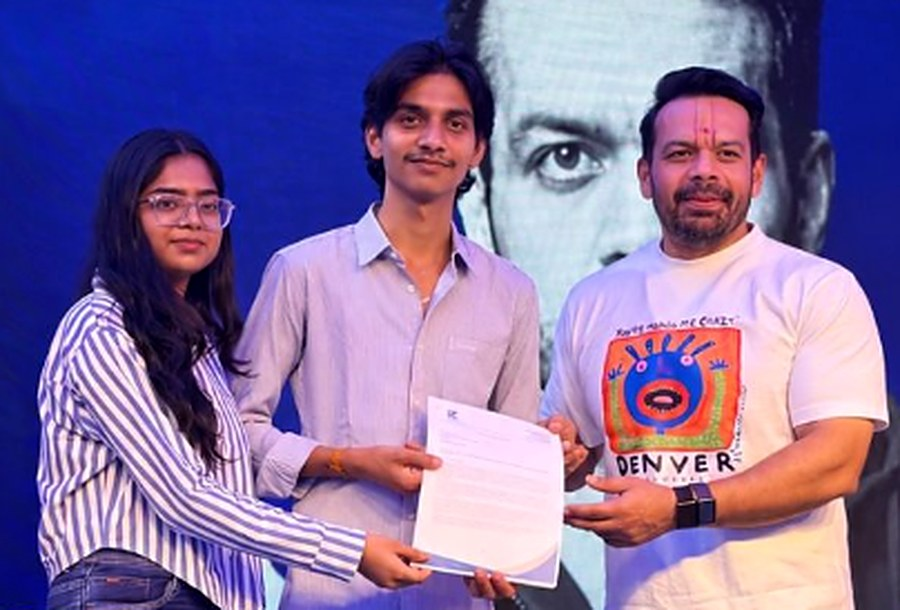
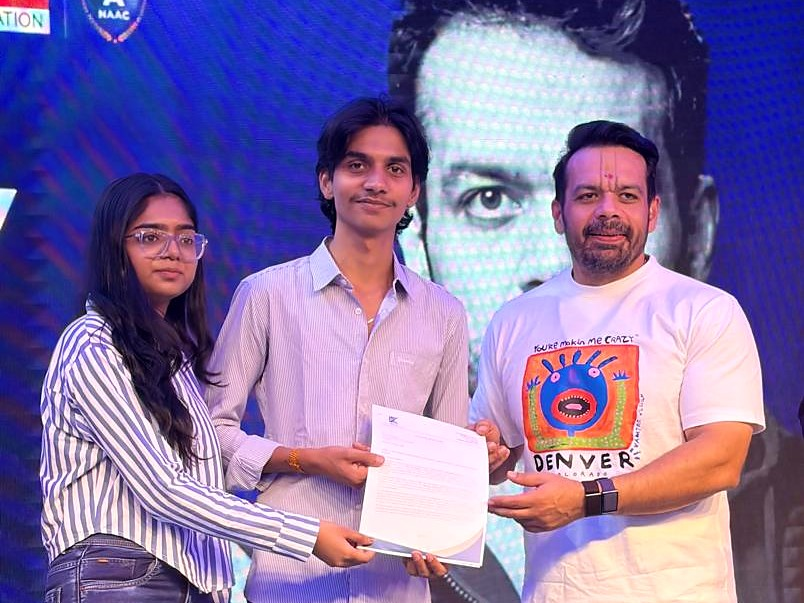
Sharper IDEAS 4.0 photos and LinkedIn links

diff --git a/src/pages/Team.jsx b/src/pages/Team.jsx
@@ -17,7 +17,7 @@ const TEAM = [
     ],
     quote: 'Sometimes all it takes is the ambition to build something from scratch.',
     focus: ['Vision', 'Research', 'Execution'],
-    linkedin: '', // paste the LinkedIn link here, or leave empty to hide the button
+    linkedin: 'https://www.linkedin.com/in/kumar-nishant-ds', // leave empty to hide the button
   },
   {
     name: 'Bhavya Singhal', short: 'Bhavya', role: 'Co-founder', tone: 'teal',
@@ -28,7 +28,7 @@ const TEAM = [
       "She is the team's strategist and thinker. She helps decide where AquaByte is heading, brings people and ideas together, and makes sure every big decision has a clear reason behind it.",
     ],
     focus: ['Strategy', 'Collaboration', 'Big-picture thinking'],
-    linkedin: '',
+    linkedin: 'https://www.linkedin.com/in/bhavya-singhal-a0b485381',
   },
   {
     name: 'Anushka Pandey', short: 'Anushka', role: 'Web Developer', tone: 'sky',
@@ -38,7 +38,7 @@ const TEAM = [
       "Anushka designed and developed the AquaByte website, from the home page to the live dashboard, analytics charts and the Aqua assistant. She turned the team's ideas into a clean, responsive site that works on every screen.",
     ],
     focus: ['Web development', 'UI design', 'React'],
-    linkedin: '',
+    linkedin: 'https://www.linkedin.com/in/anushka-pandey-83b570381',
   },
 ]
 
@@ -48,9 +48,9 @@ const ACHIEVEMENT = {
   text: 'We presented AquaByte at IDEAS 4.0, the innovation and entrepreneurship event by KEIC at K.R. Mangalam University, and were awarded certificates on stage. A moment that pushed us to keep building.',
   // Photos live in public/achievements/
   photos: [
-    { src: '/achievements/ideas-1.jpg', alt: 'Receiving our certificate on stage at IDEAS 4.0' },
-    { src: '/achievements/ideas-2.jpg', alt: 'The AquaByte team on stage at IDEAS 4.0' },
-    { src: '/achievements/ideas-3.jpg', alt: 'Certificate of recognition at K.R. Mangalam University' },
+    { src: '/achievements/ideas-1.jpg', alt: 'The AquaByte team receiving their certificate on stage at IDEAS 4.0' },
+    { src: '/achievements/ideas-2.jpg', alt: 'The AquaByte team receiving the certificate on stage at IDEAS 4.0' },
+    { src: '/achievements/ideas-3.jpg', alt: 'Being congratulated on stage at IDEAS 4.0, K.R. Mangalam University' },
   ],
 }
 

diff --git a/src/pages/team.css b/src/pages/team.css
@@ -215,7 +215,7 @@
 .tm-ac-text { padding: 12px 18px 12px 0; position: relative; z-index: 1; }
 .tm-gallery { position: relative; z-index: 1; display: grid; gap: 10px; min-width: 0; }
 .tm-gallery-main {
-  width: 100%; aspect-ratio: 3 / 2; object-fit: cover; border-radius: 18px; border: 4px solid rgba(255, 255, 255, .85);
+  width: 100%; aspect-ratio: 4 / 3; object-fit: cover; object-position: 50% 30%; border-radius: 18px; border: 4px solid rgba(255, 255, 255, .85);
   box-shadow: 0 20px 40px -20px rgba(0, 0, 0, .45); animation: tm-photo-in .6s cubic-bezier(.2, .8, .2, 1) both;
 }
 @keyframes tm-photo-in { from { opacity: 0; transform: scale(.97) } }
